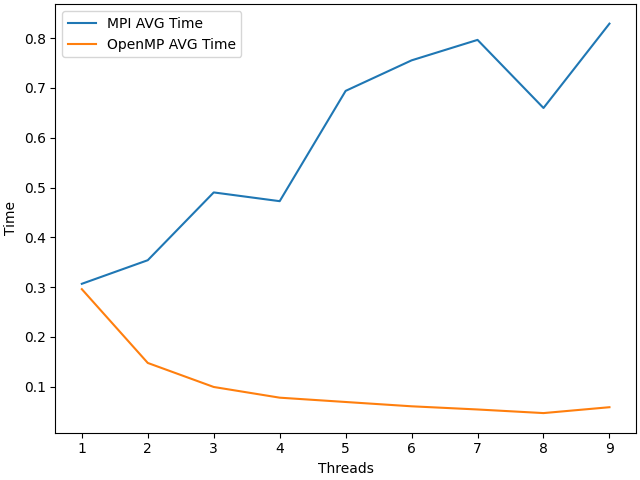
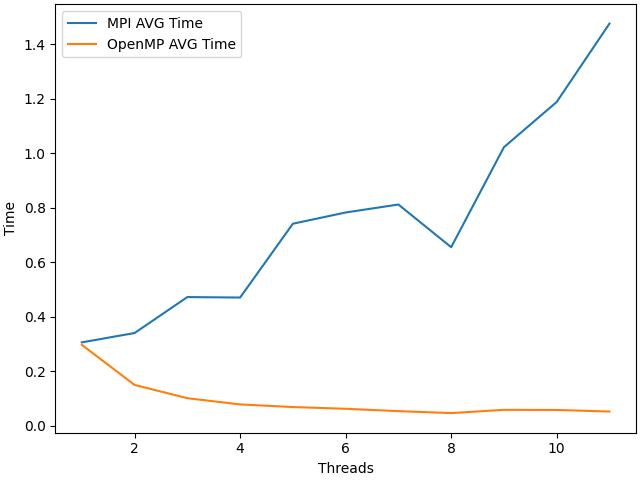
hui

diff --git a/lab5/src/parallel_core.py b/lab5/src/parallel_core.py
@@ -4,9 +4,9 @@ from logger import logger
 import matplotlib.pyplot as plt
 from abc import ABC
 
-AVG_RUNS = 1
+AVG_RUNS = 5
 MAX_SYSTEM_THREADS = 8
-MAX_TEST_THREAD = 10
+MAX_TEST_THREAD = 12
 
 
 class ParallelExecutor:
